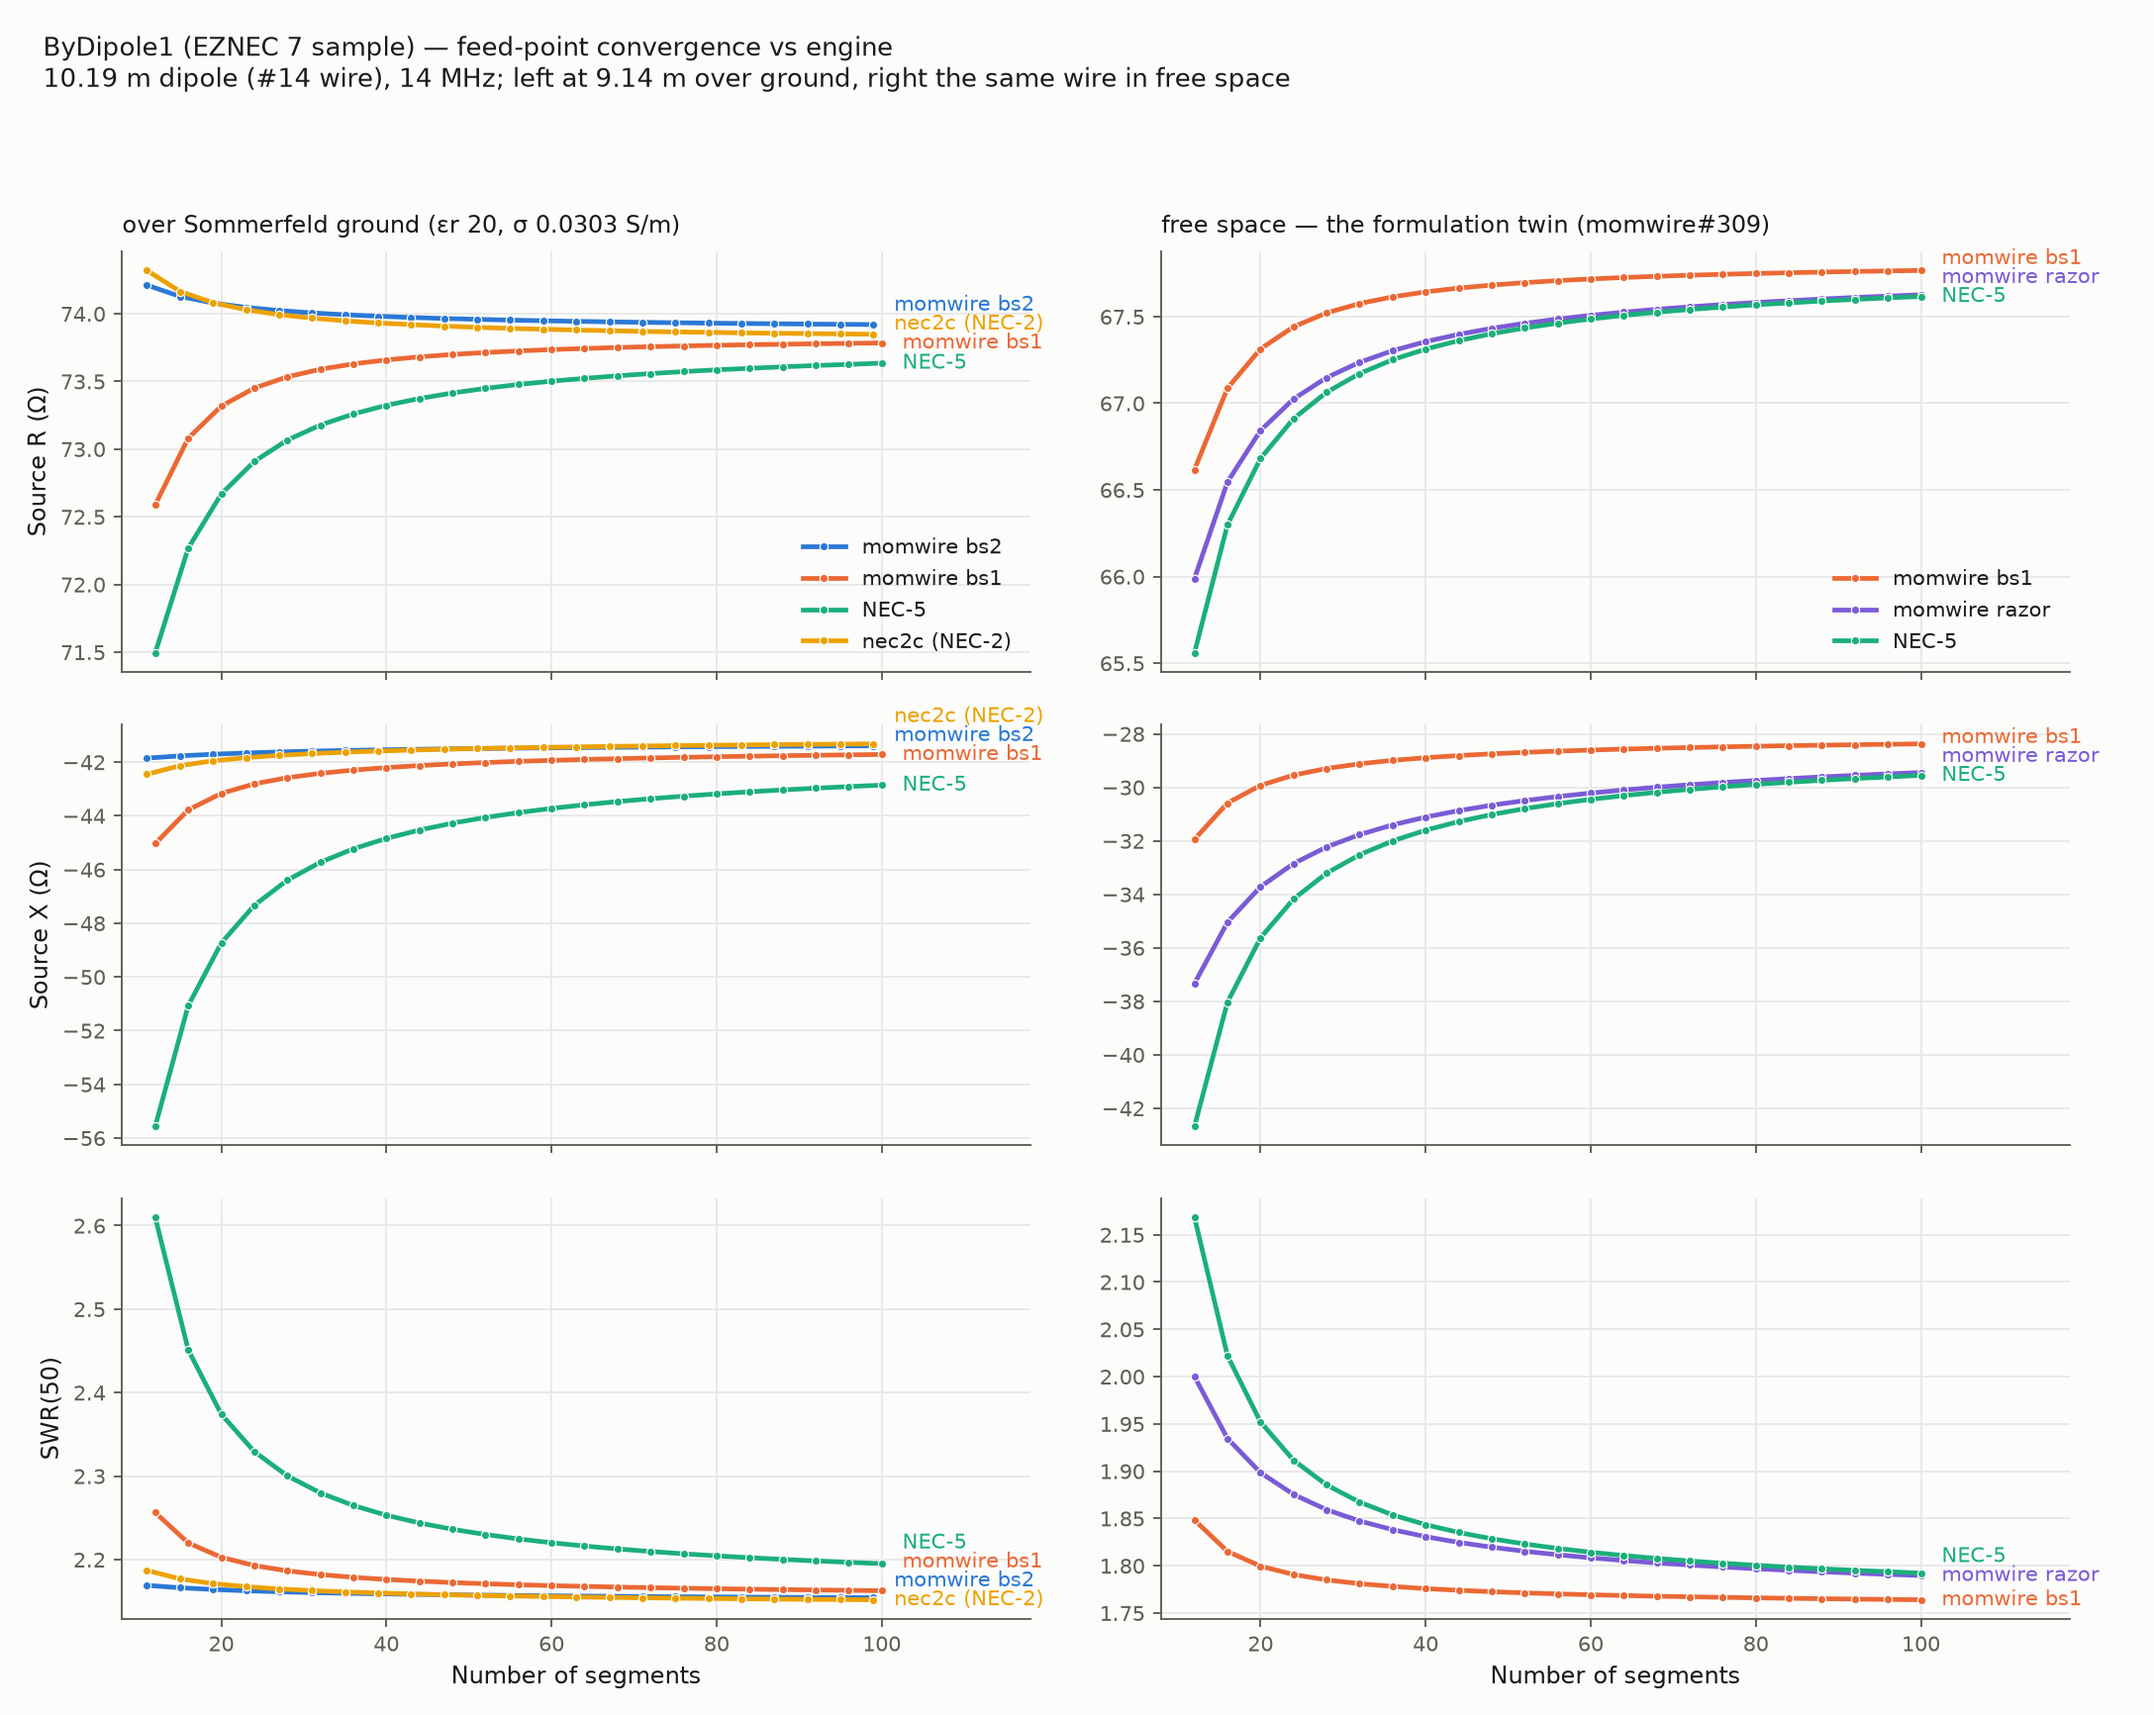
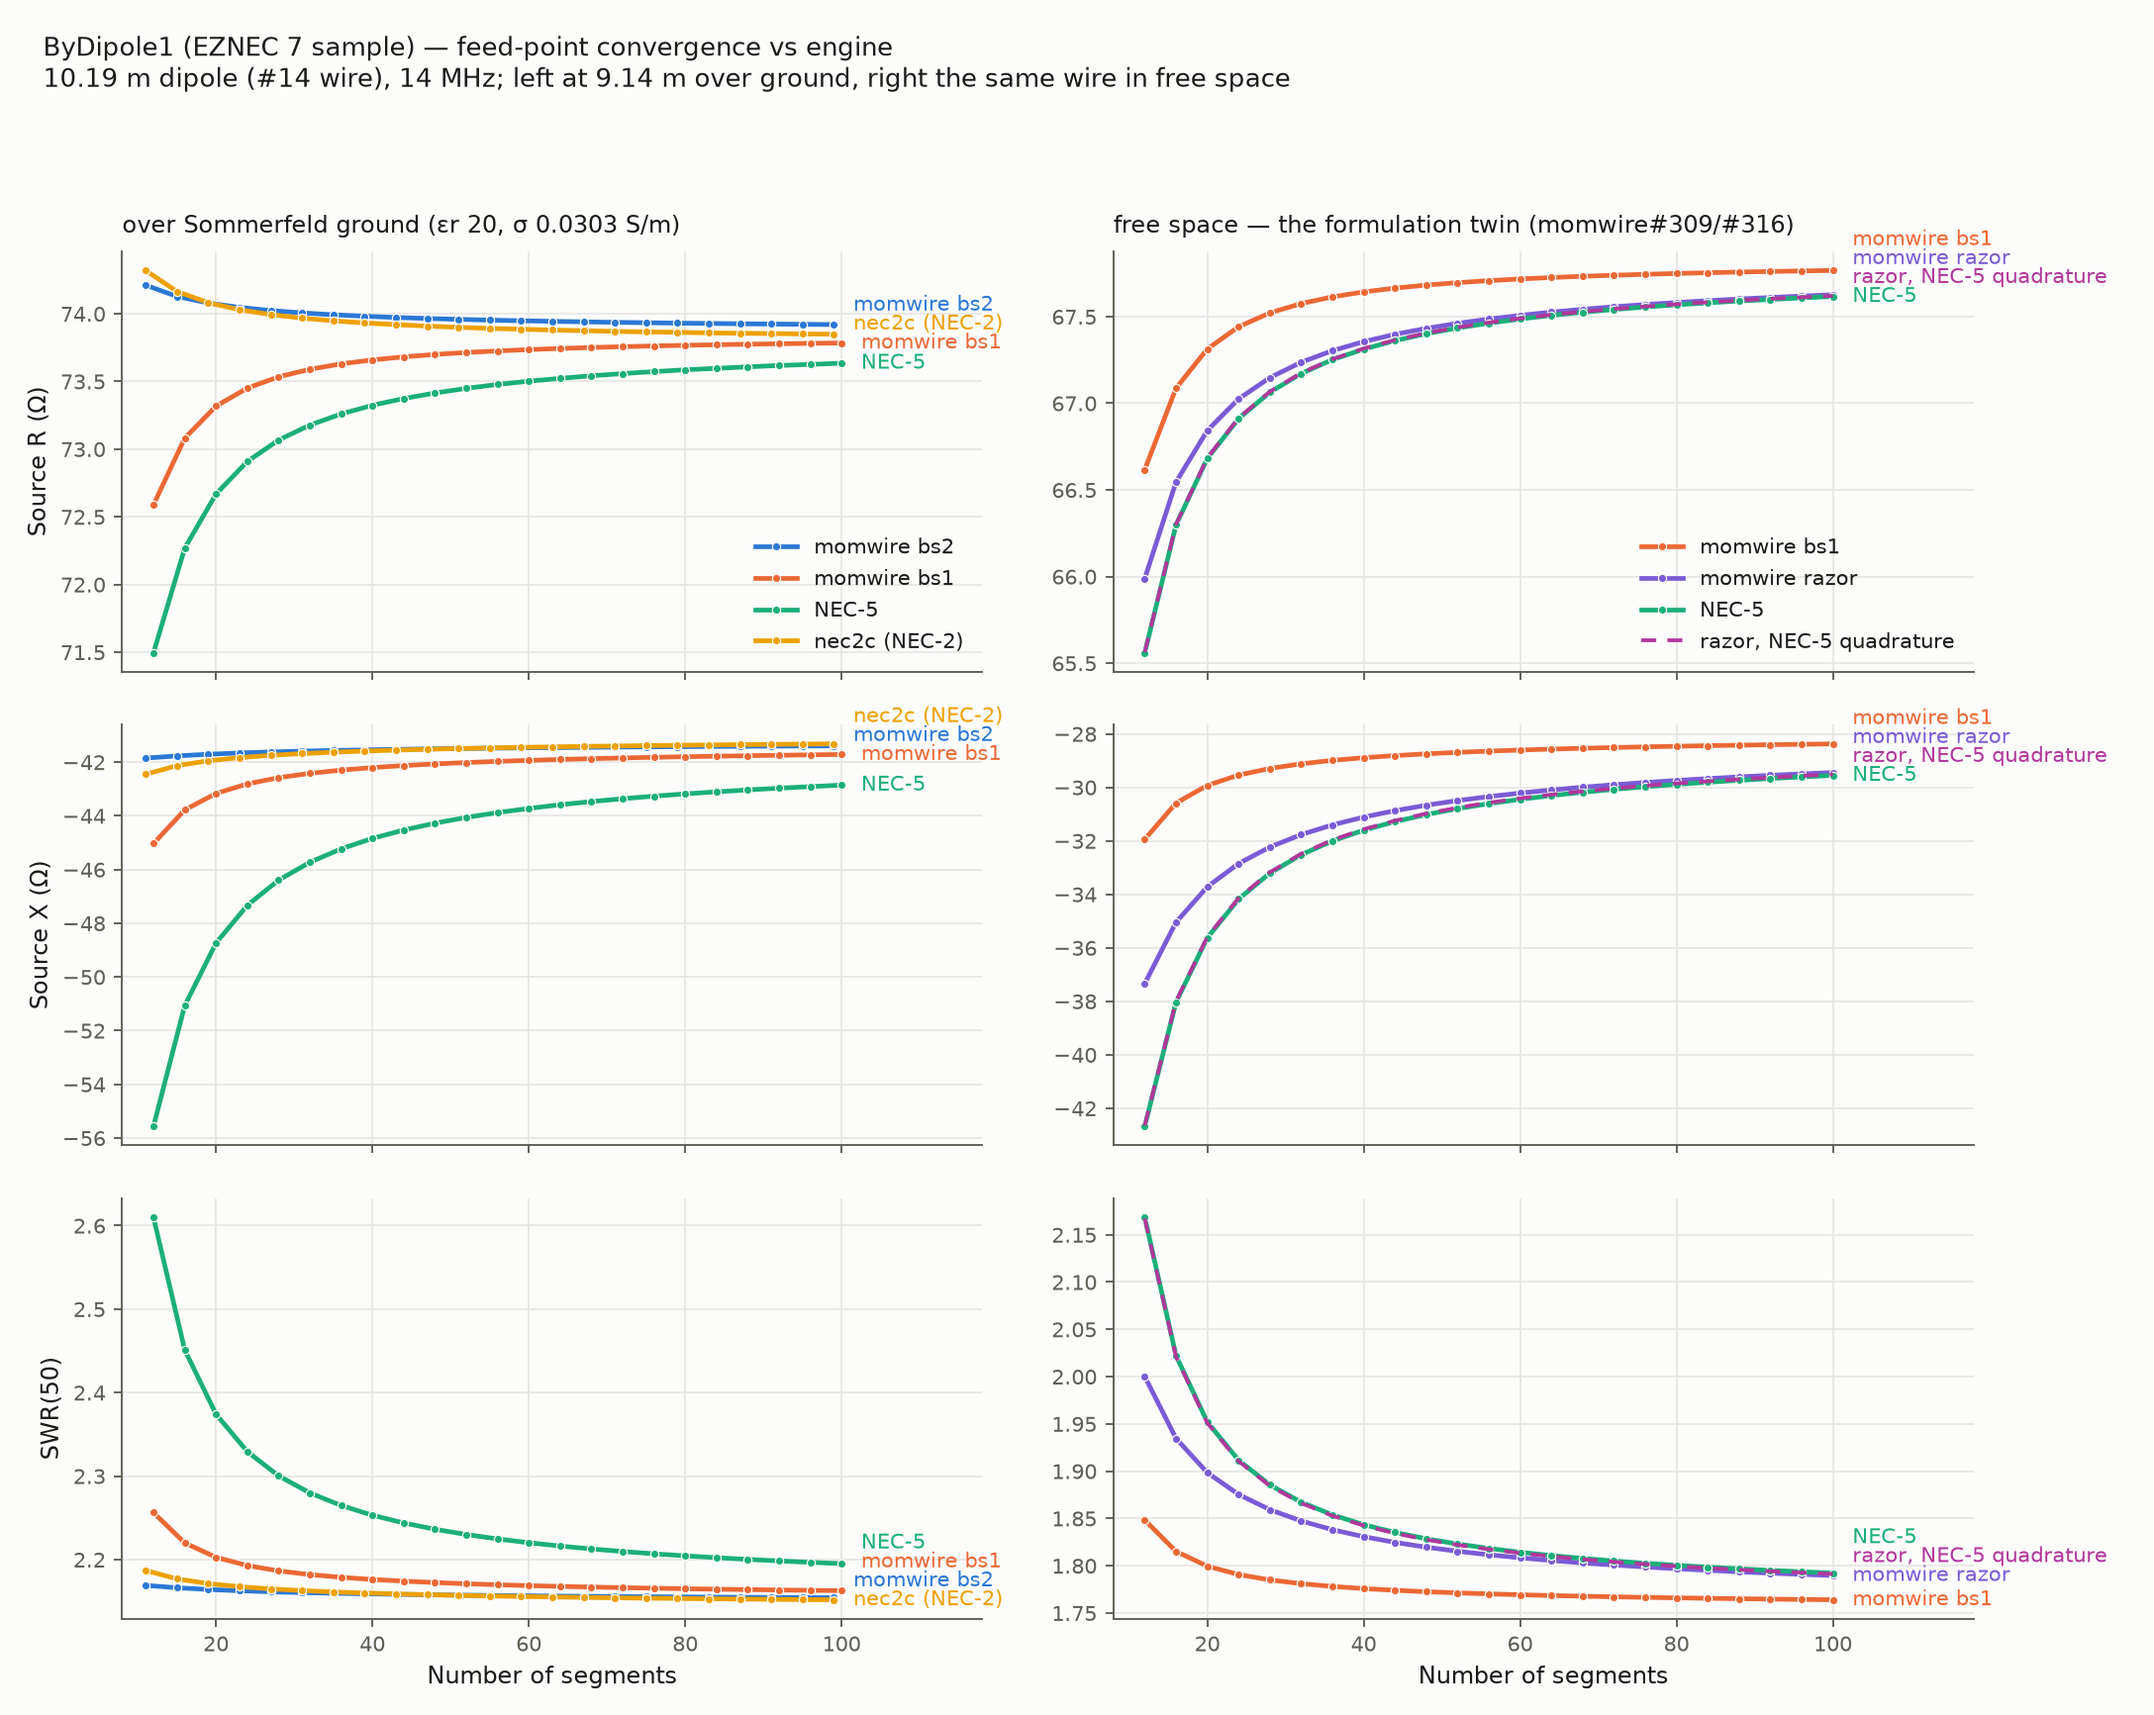
feat(site): the twin panel closes the loop — NEC-5-quadrature razor lane overlays the NEC-5 curve
Adds the momwire#316 nec5_quadrature lane to the free-space column as a
dashed overlay: with NEC-5's identified centroid-trapezoid path rule
adopted, the razor lane lands on NEC-5's curve at every rung (constant
-0.004-0.037j residual). Page text names the mechanism. Requires
momwire >= #317 for --recompute of that lane; the committed JSON serves
page rebuilds as before.

Claude-Session: https://claude.ai/code/session_0163HVuvMSt5iYuA7gfTQWRT

diff --git a/scripts/build_validation_report.py b/scripts/build_validation_report.py
@@ -196,6 +196,13 @@ def recompute_free_ladders() -> dict:
     print("bs1 free done", flush=True)
     free["razor"] = [[n, *_ri(_free_wire_solver(n, RazorSolver))] for n in EVEN]
     print("razor done", flush=True)
+    # The momwire#316 mode: NEC-5's identified centroid-trapezoid path rule.
+    # This lane lands on the NEC-5 curve rung-for-rung (constant
+    # ~0.004+0.037j residual) — the quadrature IS the coarse-mesh excess.
+    free["razor_n5q"] = [
+        [n, *_ri(_free_wire_solver(n, RazorSolver, nec5_quadrature=True))] for n in EVEN
+    ]
+    print("razor_n5q done", flush=True)
     FREE_LADDERS.write_text(json.dumps(free))
     return free
 
@@ -462,10 +469,16 @@ def render_figure(data: dict, free: dict) -> None:
                 "bs1": ("#eb6834", "momwire bs1"),
                 "razor": ("#7a5bd6", "momwire razor"),
                 "nec5": ("#1baf7a", "NEC-5"),
+                # NEC-5's identified quadrature (momwire#316): drawn as a
+                # marker-free dashed overlay so the green NEC-5 curve shows
+                # through between the dashes — the two are one curve to
+                # within a constant 0.04 Ω.
+                "razor_n5q": ("#b2379b", "razor, NEC-5 quadrature"),
             },
-            "free space — the formulation twin (momwire#309)",
+            "free space — the formulation twin (momwire#309/#316)",
         ),
     ]
+    dashed = {"razor_n5q"}
 
     fig, axes = plt.subplots(3, 2, figsize=(12.8, 10.2), sharex=True, facecolor=surface)
     panels = [
@@ -481,18 +494,21 @@ def render_figure(data: dict, free: dict) -> None:
                 pts = col_data[key]
                 ns = [p[0] for p in pts]
                 ys = [f(_z(p)) for p in pts]
-                ax.plot(
-                    ns,
-                    ys,
-                    color=color,
-                    lw=2,
-                    marker="o",
-                    ms=3.5,
-                    mfc=color,
-                    mec=surface,
-                    mew=0.5,
-                    label=label,
-                )
+                if key in dashed:
+                    ax.plot(ns, ys, color=color, lw=1.6, ls=(0, (4, 3)), label=label)
+                else:
+                    ax.plot(
+                        ns,
+                        ys,
+                        color=color,
+                        lw=2,
+                        marker="o",
+                        ms=3.5,
+                        mfc=color,
+                        mec=surface,
+                        mew=0.5,
+                        label=label,
+                    )
                 ends.append((ys[-1], ns[-1], label, color))
             # Spread the end-of-line labels: enforce a minimum vertical gap
             # (fraction of the AXIS range, so it tracks font size) so series
@@ -702,8 +718,10 @@ count on ByDipole1. Left, over ground: momwire bs2, momwire bs1, NEC-5 and
 nec2c — the bs2 curve is flat from eleven segments while NEC-5 approaches
 the common limit in a first-order march. Right, the same wire in free
 space: momwire's razor solver shares NEC-5's first-order march and lands
-on the same limit, while bs1, on the same tent basis with Galerkin
-testing, converges faster.](../../../assets/validation/bydipole1-convergence.png)
+on the same limit, bs1 on the same tent basis with Galerkin testing
+converges faster, and a dashed razor lane using NEC-5's identified
+quadrature lies directly on the NEC-5
+curve.](../../../assets/validation/bydipole1-convergence.png)
 
 {bd_table}
 
@@ -739,10 +757,18 @@ march — X-pair steps X(2N)−X(N) of {razor_pairs} Ω against NEC-5's
 (NEC-5 carries extra coarse-mesh excess on the first pair) — and the two
 curves land together on a common limit, while bs1, the *same tent basis*
 under Galerkin testing, converges visibly faster on its own trajectory. The march is the testing rule, reproduced
-from the manual's description alone, with no NEC-5 code involved. (The
-twin panel is free-space because RazorSolver deliberately carries no
-ground: NEC-5's Michalski ground has its own small limit offset that
-would blur the formulation comparison.)
+from the manual's description alone, with no NEC-5 code involved.
+
+The dashed overlay closes the loop: NEC-5's remaining coarse-mesh excess
+over the twin was identified (momwire#316) as its quadrature — the
+∫A·dl testing integral evaluated by a two-point trapezoid at the element
+centroids, the literal reading of "path integrals between centroids".
+With that one rule adopted (`nec5_quadrature=True`), the razor lane lands
+on NEC-5's curve at every rung, to a constant −0.004−0.037j Ω — an
+N-independent kernel nuance and the entire remaining difference between
+the two codes on this wire. (The twin panel is free-space because
+RazorSolver deliberately carries no ground: NEC-5's Michalski ground has
+its own small limit offset that would blur the formulation comparison.)
 
 Provenance: geometry translated from the EZNEC 7 distribution, with
 EZNEC's current-source feed idiom replaced by a direct center voltage feed

diff --git a/site/src/content/docs/reference/validation.md b/site/src/content/docs/reference/validation.md
@@ -65,8 +65,10 @@ count on ByDipole1. Left, over ground: momwire bs2, momwire bs1, NEC-5 and
 nec2c — the bs2 curve is flat from eleven segments while NEC-5 approaches
 the common limit in a first-order march. Right, the same wire in free
 space: momwire's razor solver shares NEC-5's first-order march and lands
-on the same limit, while bs1, on the same tent basis with Galerkin
-testing, converges faster.](../../../assets/validation/bydipole1-convergence.png)
+on the same limit, bs1 on the same tent basis with Galerkin testing
+converges faster, and a dashed razor lane using NEC-5's identified
+quadrature lies directly on the NEC-5
+curve.](../../../assets/validation/bydipole1-convergence.png)
 
 | engine | coarsest read — Z in Ω (SWR₅₀) @ N | finest read @ N |
 | --- | --- | --- |
@@ -107,10 +109,18 @@ march — X-pair steps X(2N)−X(N) of +4.49 / +2.18 / +1.17 Ω against NEC-5's
 (NEC-5 carries extra coarse-mesh excess on the first pair) — and the two
 curves land together on a common limit, while bs1, the *same tent basis*
 under Galerkin testing, converges visibly faster on its own trajectory. The march is the testing rule, reproduced
-from the manual's description alone, with no NEC-5 code involved. (The
-twin panel is free-space because RazorSolver deliberately carries no
-ground: NEC-5's Michalski ground has its own small limit offset that
-would blur the formulation comparison.)
+from the manual's description alone, with no NEC-5 code involved.
+
+The dashed overlay closes the loop: NEC-5's remaining coarse-mesh excess
+over the twin was identified (momwire#316) as its quadrature — the
+∫A·dl testing integral evaluated by a two-point trapezoid at the element
+centroids, the literal reading of "path integrals between centroids".
+With that one rule adopted (`nec5_quadrature=True`), the razor lane lands
+on NEC-5's curve at every rung, to a constant −0.004−0.037j Ω — an
+N-independent kernel nuance and the entire remaining difference between
+the two codes on this wire. (The twin panel is free-space because
+RazorSolver deliberately carries no ground: NEC-5's Michalski ground has
+its own small limit offset that would blur the formulation comparison.)
 
 Provenance: geometry translated from the EZNEC 7 distribution, with
 EZNEC's current-source feed idiom replaced by a direct center voltage feed
